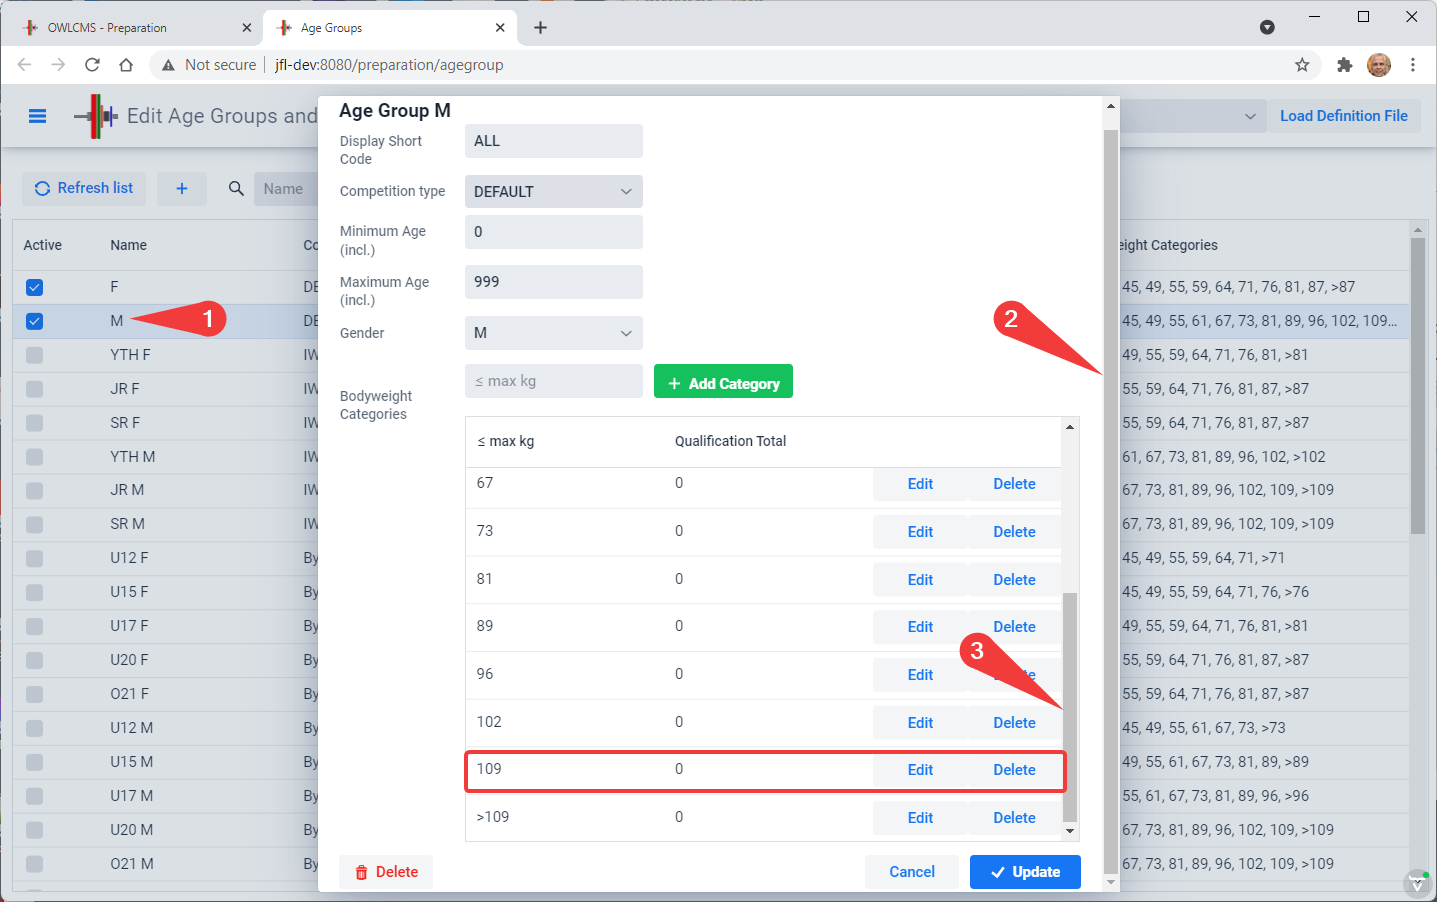
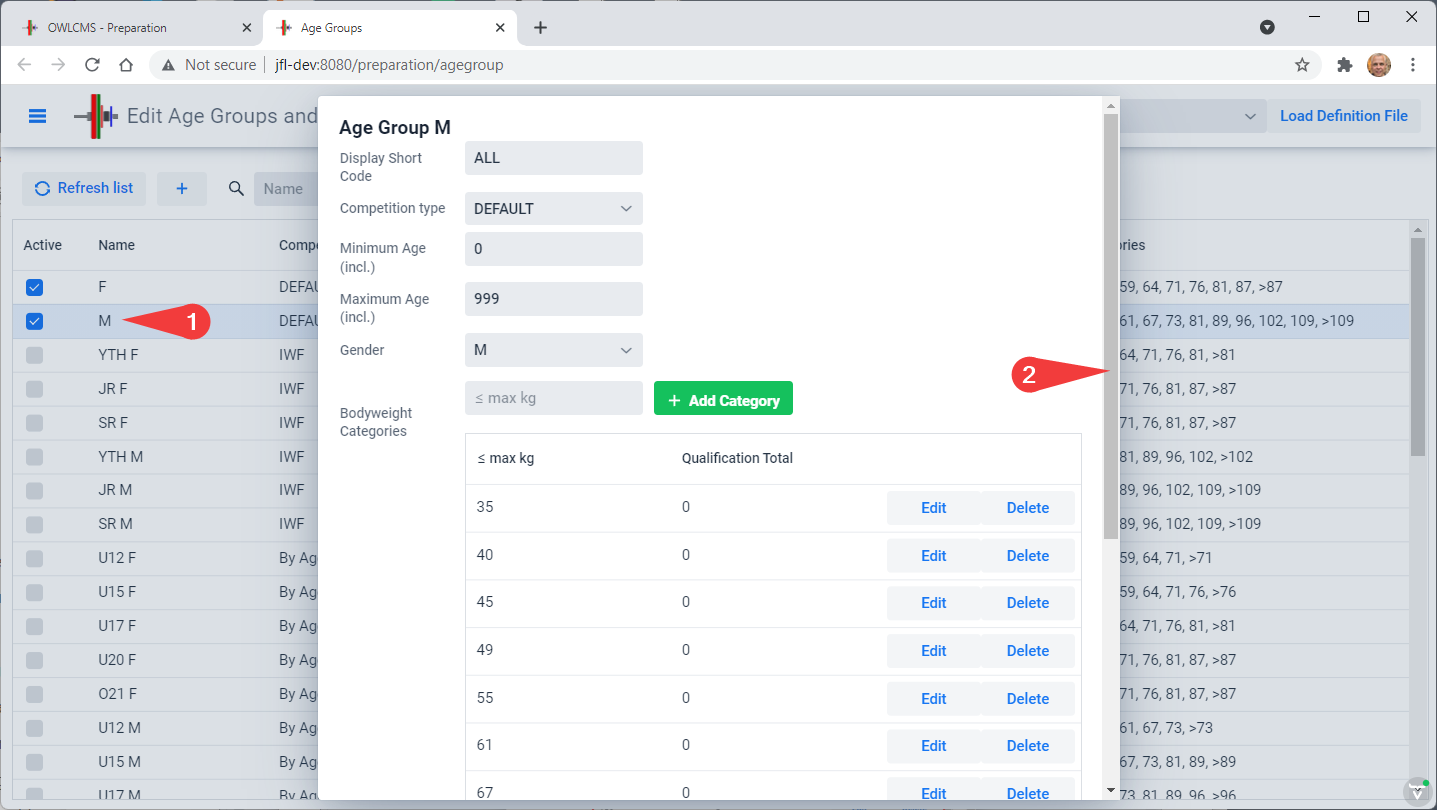
Fixed age group editing layout to avoid double scrollbar

diff --git a/owlcms/src/main/java/app/owlcms/ui/preparation/AgeGroupEditingFormFactory.java b/owlcms/src/main/java/app/owlcms/ui/preparation/AgeGroupEditingFormFactory.java
@@ -58,7 +58,7 @@ public class AgeGroupEditingFormFactory
 
     @Override
     public AgeGroup add(AgeGroup AgeGroup) {
-        AgeGroupRepository.save(AgeGroup);
+        AgeGroupRepository.add(AgeGroup);
         return AgeGroup;
     }
 
@@ -96,9 +96,6 @@ public class AgeGroupEditingFormFactory
         FormLayout formLayout = new FormLayout();
         formLayout.setResponsiveSteps(new ResponsiveStep("0", 1, LabelsPosition.ASIDE));
         formLayout.setWidth("50em");
-//        if (this.responsiveSteps != null) {
-//            formLayout.setResponsiveSteps(this.responsiveSteps);
-//        }
 
         binder = buildBinder(null, aFromDb);
         String message = Translator.translate("AgeFormat");

diff --git a/owlcms/src/main/java/app/owlcms/data/category/Category.java b/owlcms/src/main/java/app/owlcms/data/category/Category.java
@@ -97,7 +97,6 @@ public class Category implements Serializable, Comparable<Category>, Cloneable {
     // combines age group and bw category (which includes gender).
     private String code;
 
-    // we need EAGER due to the way the CRUD updater works.
     @OneToMany(mappedBy = "category", cascade = CascadeType.ALL, orphanRemoval = true, fetch = FetchType.LAZY)
     private List<Participation> participations = new ArrayList<>();
 

diff --git a/owlcms/src/main/java/app/owlcms/components/fields/CategoryGridField.java b/owlcms/src/main/java/app/owlcms/components/fields/CategoryGridField.java
@@ -74,6 +74,7 @@ public class CategoryGridField extends CustomField<List<Category>> {
         qualTotColumn = catGrid
                 .addColumn(Category::getQualifyingTotal)
                 .setHeader(Translator.translate("Category.QualificationTotal"));
+        catGrid.setHeightByRows(true);
 
         setupEditing(catGrid);
 

diff --git a/docs/Categories.md b/docs/Categories.md
@@ -22,14 +22,18 @@ For the sake of the example, let's assume that we want to change the settings so
 
 ![030_beforeRemoveCategory](img/Categories/030_beforeRemoveCategory.png)
 
-The first thing we want is to remove the 109kg category so we have 102kg as the last category with an upper limit.   We simply click "Delete" on the 109 row.
+What want is to remove the 109kg category so we have 102kg as the last category with an upper limit.   We simply click "Delete" on the 109 row.
 
-- the 109 category is removed,
+![031_beforeRemoveCategory](img/Categories/031_beforeRemoveCategory.png)
+
+After clicking on the Delete button
+
+- the 109 category is slated for removal,
 - the heaviest category is automatically changed to >102. The system always adjust the last "X and above" category based on the heaviest category with an upper limit.
 
-The list is automatically updated.
+The changes to the age group are only registered when you click on the blue "Update" button at the bottom of the form.
 
-![031_AfterRemoveCategory](img/Categories/031_AfterRemoveCategory.png)
+![032_AfterRemoveCategory](img/Categories/032_AfterRemoveCategory.png)
 
 Let's now say we want a 41kg category instead of a 40kg.  This is done in two steps
 
